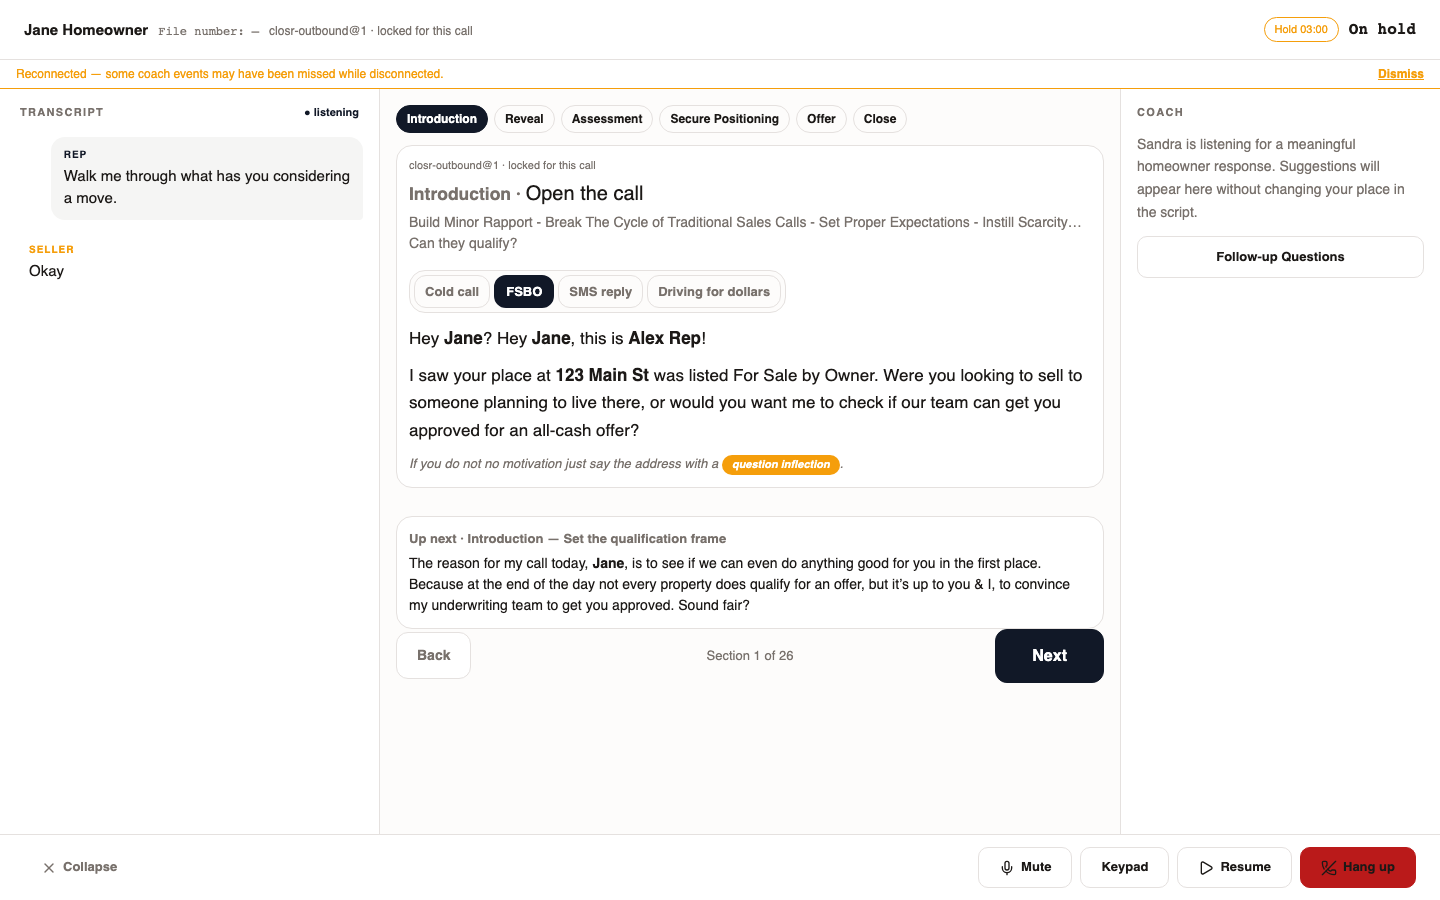
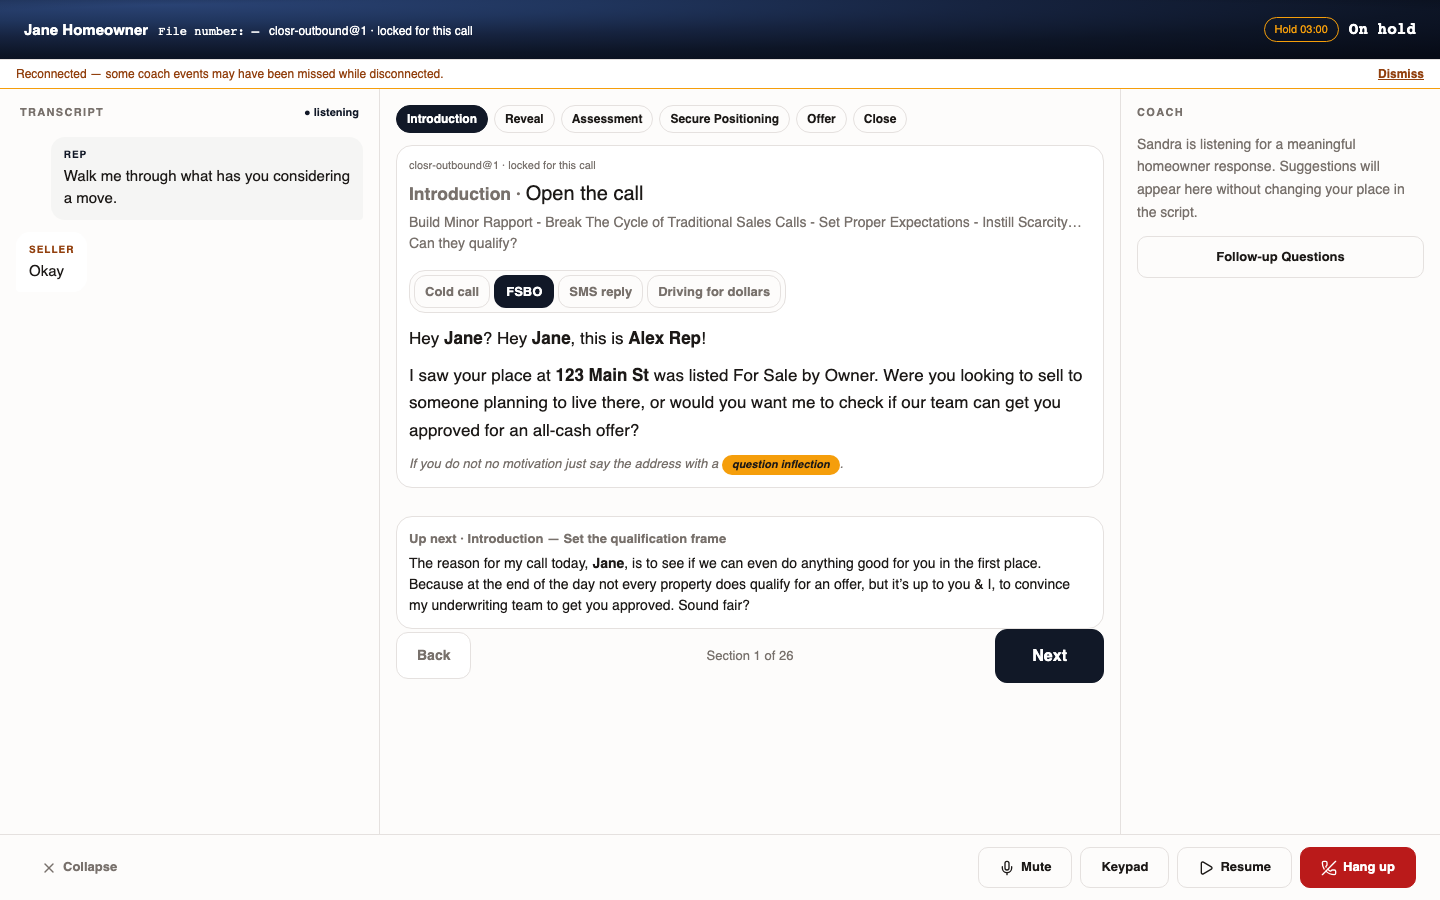
fix(coach): restore V2 light contrast

Changed region(s): [[0.0, 0.0, 1.0, 0.0933], [0.9375, 0.9333, 0.9688, 0.9956], [0.5, 0.4978, 0.5625, 0.5289]]

diff --git a/src/components/coach/coach-live-view.css b/src/components/coach/coach-live-view.css
@@ -48,11 +48,12 @@
   --secondary-foreground: var(--sandra-coach-secondary-foreground);
   --ring: var(--sandra-coach-ring);
   --destructive: var(--sandra-coach-destructive);
-  --coach-rail: var(--sandra-coach-card);
+  --coach-rail: var(--sandra-coach-header-background);
+  --coach-rail-foreground: var(--sandra-coach-header-foreground);
   --coach-secondary: var(--sandra-coach-muted-foreground);
   --coach-sky: var(--sandra-coach-primary);
   --coach-amber: var(--alert-warning);
-  --coach-amber-text: var(--alert-warning);
+  --coach-amber-text: var(--sandra-coach-warning-foreground);
   color-scheme: light dark;
 }
 
@@ -66,7 +67,7 @@
 [data-testid="coach-live-view"] {
   .font-mono { font-family: var(--font-geist-mono, "Geist Mono"), monospace; }
   [data-testid="coach-script-panel"] { scroll-padding-bottom: calc(var(--coach-sticky-height, 0px) + 16px); }
-  .coach-top-bar { display: flex; flex-wrap: wrap; align-items: center; gap: 8px 16px; padding: 10px 24px; background: var(--coach-rail); }
+  .coach-top-bar { display: flex; flex-wrap: wrap; align-items: center; gap: 8px 16px; padding: 10px 24px; background: var(--coach-rail); color: var(--coach-rail-foreground, var(--foreground)); }
   .coach-identity { display: flex; min-width: 0; align-items: baseline; gap: 10px; }
   [data-testid="coach-file-number"] { color: var(--coach-secondary); white-space: nowrap; }
   .coach-status { display: flex; flex-wrap: wrap; align-items: center; justify-content: flex-end; gap: 10px; margin-left: auto; }
@@ -74,7 +75,7 @@
   [data-testid^="phase-rail-"] { display: flex; align-items: center; gap: 6px; padding: 6px 12px; letter-spacing: .06em; }
   [data-testid^="phase-rail-"][aria-current] { font-weight: 800; }
   [data-testid^="phase-rail-"]:has(.coach-phase-tick) { color: var(--coach-sky); }
-  .coach-phase-tick { display: inline-flex; align-items: center; justify-content: center; width: 16px; height: 16px; border-radius: 50%; background: var(--coach-sky); color: var(--coach-rail); font-size: 10px; }
+  .coach-phase-tick { display: inline-flex; align-items: center; justify-content: center; width: 16px; height: 16px; border-radius: 50%; background: var(--coach-sky); color: var(--coach-rail-foreground, var(--coach-rail)); font-size: 10px; }
   .coach-phase-connector { width: 20px; height: 2px; background: var(--border); }
   .coach-phase-connector.is-complete { background: var(--coach-sky); }
   [data-testid="coach-live-pill"] { height: auto; padding: 4px 10px; border-color: var(--coach-sky); color: var(--coach-sky); font-size: 11px; }
@@ -121,6 +122,22 @@
   [data-testid="phone-keypad"] button:disabled { background: var(--card); border-color: var(--border); color: var(--muted-foreground); }
   button:disabled { opacity: 1; }
   [data-testid^="coach-"]:disabled, [data-testid="follow-up-questions"]:disabled { color: var(--muted-foreground); background: var(--card); }
+}
+
+/* V2 keeps the approved dark-navy Script Screen header in both application
+ * themes. Its active/live controls and identity text must contrast against
+ * that header instead of the ordinary page/card surface. */
+[data-testid="coach-live-view"].coach-script-v2 {
+  [data-testid="coach-file-number"],
+  [data-testid="coach-script-ref-label"] { color: var(--coach-rail-foreground); }
+  [data-testid="transcript-speaker-label"] { color: var(--coach-amber-text); }
+  [data-speaker="rep"] [data-testid="transcript-speaker-label"] { color: var(--coach-sky); }
+  [data-testid="tone-chip"] { color: var(--sandra-coach-warning-solid-foreground); }
+  [data-testid="coach-live-pill"] { border-color: var(--coach-rail-foreground); color: var(--coach-rail-foreground); }
+  [data-testid="coach-live-pill"] > span { background: var(--coach-rail-foreground); }
+  [data-testid="hold-timer"] { color: var(--coach-amber); }
+  [data-testid="coach-warning-hangup"],
+  [data-testid="coach-hangup"] { color: var(--sandra-coach-destructive-foreground); }
 }
 
 @media (min-width: 1280px) {

diff --git a/e2e/synthetic/coach-live-contrast.spec.ts b/e2e/synthetic/coach-live-contrast.spec.ts
@@ -387,6 +387,7 @@ for (const mode of [
     await expect(page.getByTestId("coach-script-ref")).toBeVisible();
     // V2 owns the only phase rail; the retired header rail must not duplicate it.
     await expect(page.getByTestId("coach-phase-scroller")).toHaveCount(0);
+    await expect(page.locator(".coach-top-bar")).toHaveCSS("background-image", /gradient/);
 
     const script = page.getByTestId("coach-script-v2-panel");
     const scriptLine = script.locator(".coach-spoken-line").first();
@@ -396,6 +397,9 @@ for (const mode of [
     const counter = page.getByTestId("coach-call-timer");
     const back = page.getByTestId("coach-back");
     const next = page.getByTestId("coach-next");
+    const hangup = page.getByTestId("coach-hangup");
+    const reconnectBanner = page.getByTestId("coach-reconnect-gap");
+    const sellerLabel = page.getByTestId("transcript-speaker-label").filter({ hasText: "Seller" }).first();
 
     await expect(scriptLine).toBeVisible();
     await expect(phasePill).toBeVisible();
@@ -405,10 +409,27 @@ for (const mode of [
     assertAA("V2 tab label", await measureRenderedContrast(tabLabel));
     assertAA("V2 header ref label", await measureRenderedContrast(refLabel));
     assertAA("V2 ref label", await measureRenderedContrast(page.getByTestId("coach-script-ref")));
+    assertAA("V2 dark-navy header call name", await measureRenderedContrast(page.getByTestId("coach-call-name")));
     assertAA("V2 call counter", await measureRenderedContrast(counter));
+    assertAA("V2 Hang up label", await measureRenderedContrast(hangup));
+    assertAA("V2 reconnect banner", await measureRenderedContrast(reconnectBanner));
+    assertAA("V2 SELLER label", await measureRenderedContrast(sellerLabel));
+    const toneChip = script.getByTestId("tone-chip").first();
+    await expect(toneChip).toBeVisible();
+    assertAA("V2 Tone chip", await measureRenderedContrast(toneChip));
     assertAA("V2 disabled Back", await measureRenderedContrast(back));
     await next.hover();
     assertAA("V2 Next", await measureRenderedContrast(next));
+  });
+
+  test(`meets WCAG AA for the V2 hold pill in ${mode.label} mode`, async ({ page }) => {
+    // The hold countdown sits on the V2 navy header, not on a card. Mounting
+    // this state verifies its actual effective background in both themes.
+    await page.clock.setFixedTime(new Date("2026-09-07T12:00:00Z"));
+    await mountFullCoach(page, { darkMode: mode.darkMode, withGuidance: false, scriptV2: true, held: true });
+    const holdPill = page.getByTestId("hold-timer");
+    await expect(holdPill).toBeVisible();
+    assertAA("V2 Hold pill", await measureRenderedContrast(holdPill));
   });
 
   test(`keeps keypad digits and letters readable in ${mode.label} mode`, async ({ page }) => {

diff --git a/src/app/sandra-tokens.css b/src/app/sandra-tokens.css
@@ -40,6 +40,7 @@
   --accent: #f5f5f4;
   --accent-foreground: #1c1917;
   --destructive: #ba1a1a;       /* errors, destructive actions */
+  --destructive-foreground: #ffffff;
 
   /* Muted */
   --muted: #f5f5f4;
@@ -105,6 +106,8 @@
    * notification banners. Used as 10–20% opacity fills + full-strength text. */
   --alert-critical: #dc2626;    /* escalated, unhandled */
   --alert-warning: #f59e0b;     /* aging approvals */
+  --alert-warning-foreground: #92400e;
+  --alert-warning-solid-foreground: #1c1917;
   --alert-caution: #eab308;     /* stale conversations */
   --alert-info: #6b7280;        /* unassigned / informational */
   --alert-healthy: #16a34a;     /* all-clear / success / +delta indicators */
@@ -134,6 +137,7 @@
   --accent: #292524;
   --accent-foreground: #fafaf9;
   --destructive: #f87171;       /* lightened for legibility */
+  --destructive-foreground: #1c1917;
 
   --muted: #292524;
   --muted-foreground: #a8a29e;  /* stone-400 */
@@ -156,6 +160,11 @@
   --sidebar-accent-foreground: #fafaf9;
   --sidebar-border: rgba(255, 255, 255, 0.1);
   --sidebar-ring: #78716c;
+
+  /* Alert foregrounds switch with the surface, while the text laid over a
+   * solid amber chip remains the same dark ink in both themes. */
+  --alert-warning-foreground: #fcd34d;
+  --alert-warning-solid-foreground: #1c1917;
 }
 
 /* ============================================================================

diff --git a/src/app/globals.css b/src/app/globals.css
@@ -23,6 +23,13 @@
   --sandra-coach-secondary-foreground: var(--secondary-foreground);
   --sandra-coach-ring: var(--ring);
   --sandra-coach-destructive: var(--destructive);
+  --sandra-coach-destructive-foreground: var(--destructive-foreground);
+  /* Keep the shared-script header aligned with Sandra's navy navigation
+   * field in either application theme. */
+  --sandra-coach-header-background: var(--nav-field);
+  --sandra-coach-header-foreground: var(--sidebar-primary-foreground);
+  --sandra-coach-warning-foreground: var(--alert-warning-foreground);
+  --sandra-coach-warning-solid-foreground: var(--alert-warning-solid-foreground);
 }
 
 @custom-variant dark (&:is(.dark *));

diff --git a/src/components/coach/coach-live-view.tsx b/src/components/coach/coach-live-view.tsx
@@ -418,7 +418,7 @@ function CoachTopBar({
   return (
     <div className="coach-top-bar shrink-0 border-b border-border">
       <div className="coach-identity">
-        <span className="min-w-0 truncate text-[15px] font-extrabold">{callName}</span>
+        <span data-testid="coach-call-name" className="min-w-0 truncate text-[15px] font-extrabold">{callName}</span>
         <span data-testid="coach-file-number" aria-label="File number" className="font-mono text-xs tabular-nums">
           {`File number: ${fileNumber.value}`}
         </span>
